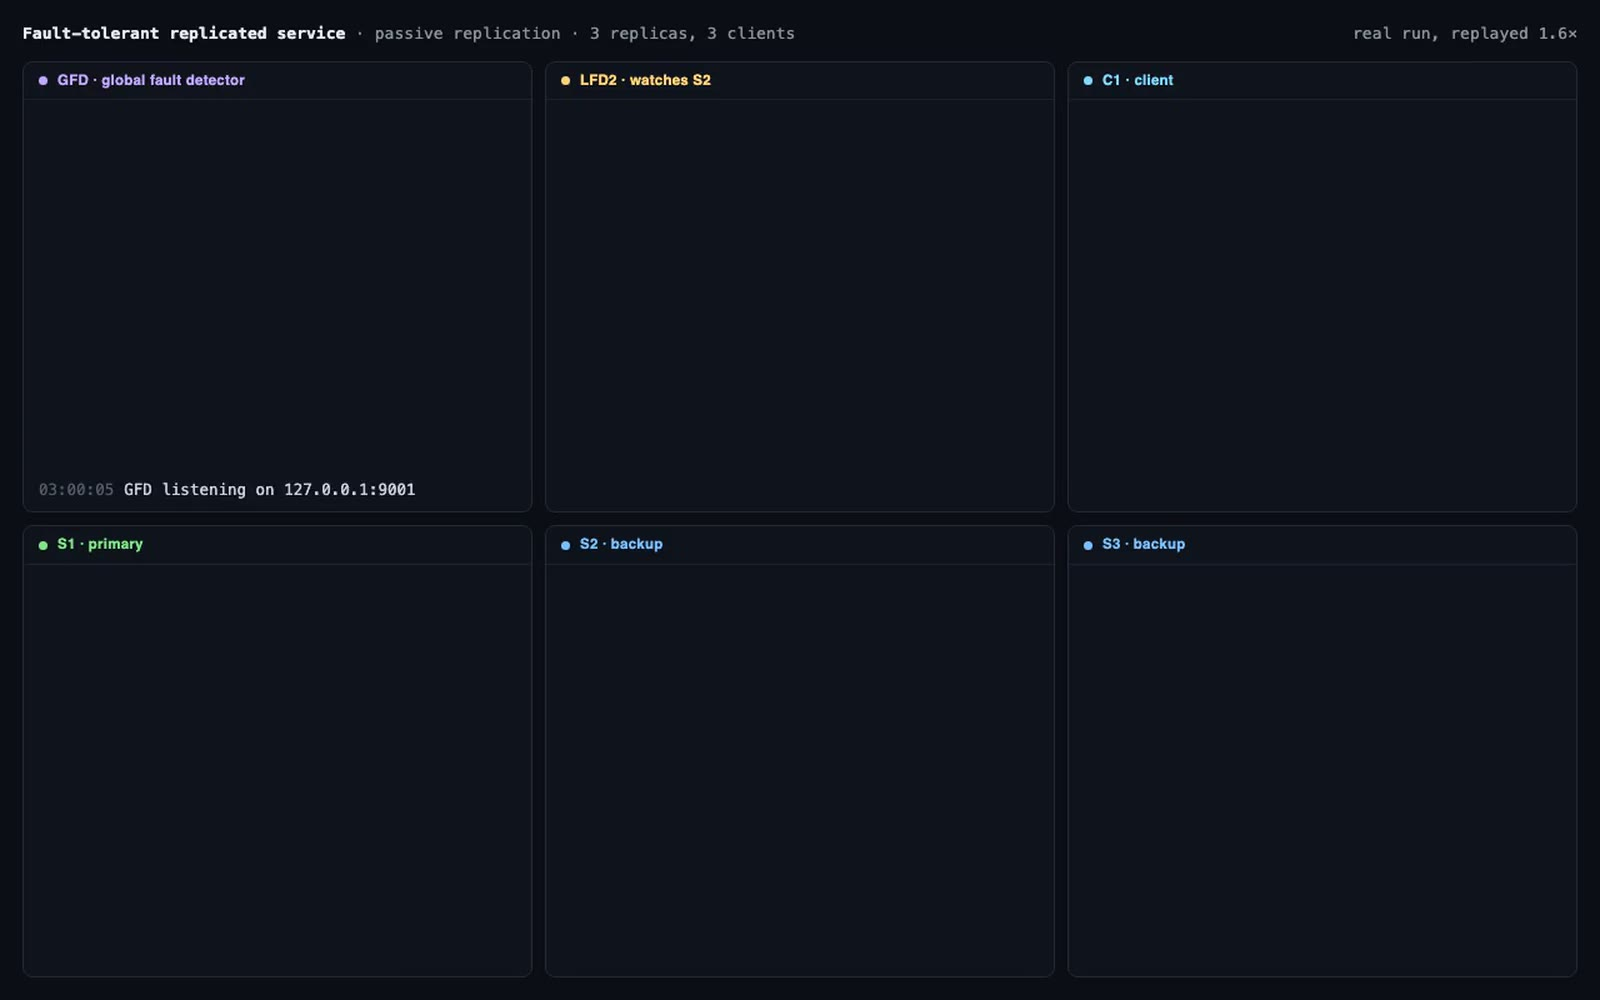
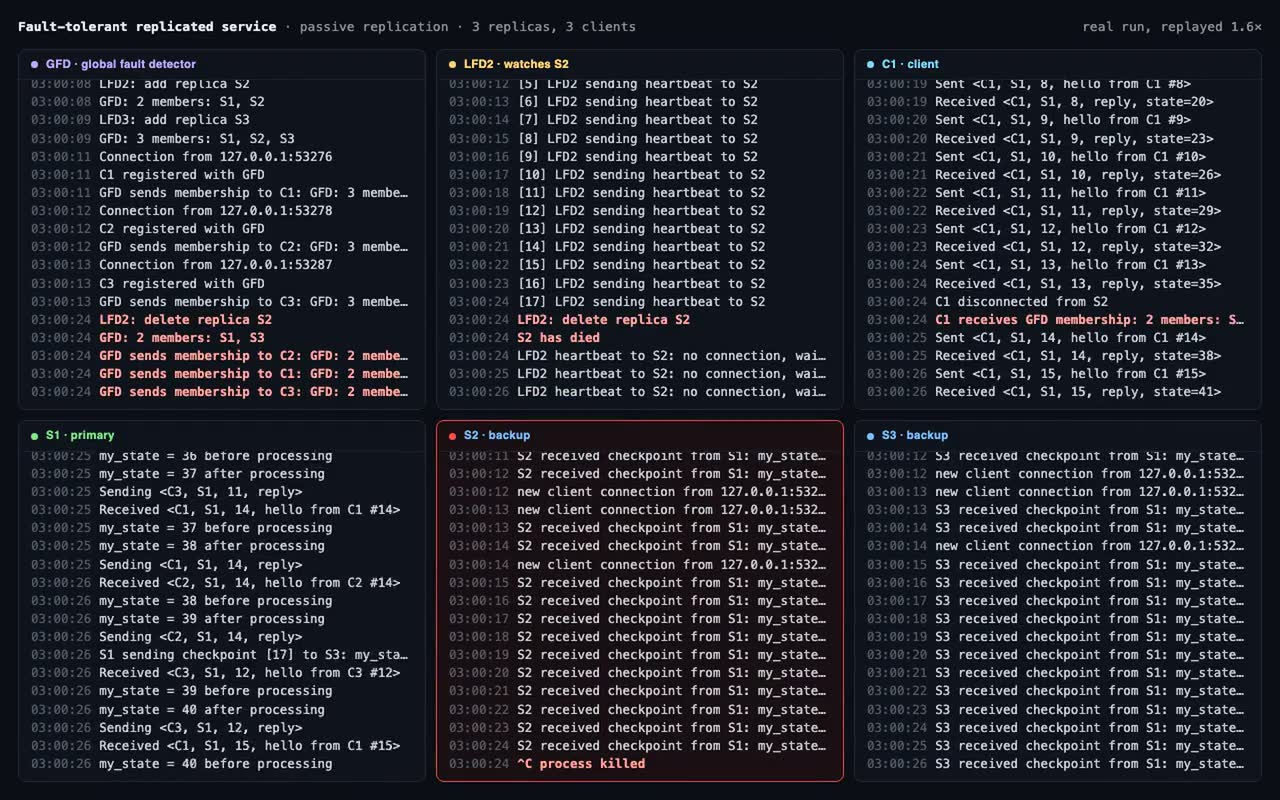
feat: sharpen project card copy and distsys poster
Rewrite Forge, LOTL, distributed system and robot learning cards with concrete scope and numbers (300 members, $60k+ bookings), fix the distsys tag (python, not java), and use a post-failover frame for its poster.

diff --git a/src/content/data.js b/src/content/data.js
@@ -24,9 +24,9 @@ export const PROJECTS = [
   {
     id: "forge",
     title: "Forge",
-    tagline: "ML experiment tracking with hardware-aware profiling",
-    body: "Run, track and compare ML experiments on financial time series: Airflow-orchestrated ingestion, per-run GPU and CPU profiling, an efficiency frontier, a model registry, and a LangGraph agent that answers questions about your runs.",
-    tag: "fastapi, airflow, pytorch",
+    tagline: "An MLOps platform for training, profiling and shipping models",
+    body: "End-to-end ML lifecycle on financial time series: Airflow ingestion into Postgres and pgvector, PyTorch and XGBoost training tracked in W&B, hardware-aware latency and memory profiling with an efficiency frontier, a staged model registry on S3, Prometheus and Grafana monitoring, and a LangGraph agent that answers questions about your runs with tool calls and RAG.",
+    tag: "mlops, fastapi, langgraph",
     video: "/media/forge",
     poster: "/media/forge-poster.jpg",
     links: [
@@ -37,9 +37,9 @@ export const PROJECTS = [
   {
     id: "lotl",
     title: "Ladies on the Links",
-    tagline: "A golf league's site, maintained by an issue-to-PR pipeline",
-    body: "Production site for a women's golf league. Members file an issue, Claude opens the pull request, it auto-merges; the tee sheet is Cloudflare-native and synced from Bookwhen.",
-    tag: "cloudflare, workers",
+    tagline: "The full digital stack for a 300-member golf league",
+    body: "Production platform for a women's golf league that booked over $60k this season: Bookwhen registration and booking, Google Workspace, stories with comments, events and merch. A live tee sheet parses Bookwhen booking emails in a Cloudflare Email Worker into D1. Automated fixes via GitHub Actions and issues, so the owner can change the site herself.",
+    tag: "astro, cloudflare workers, d1, claude code",
     video: "/media/lotl",
     poster: "/media/lotl-poster.jpg",
     links: [
@@ -49,10 +49,10 @@ export const PROJECTS = [
   },
   {
     id: "distsys",
-    title: "Distributed System",
-    tagline: "A fault-tolerant replicated service",
-    body: "Heartbeats, GFD and LFD membership, active and passive replication, checkpointing. Kill a backup and the detector notices, membership shrinks, and clients keep being served. CMU 18-749 team project.",
-    tag: "replication, java",
+    title: "Fault-Tolerant Replicated Service",
+    tagline: "A production-grade distributed system with automatic failover and zero dropped requests",
+    body: "Python over raw sockets: local heartbeat detectors feed a global membership service, active or primary-backup replication with checkpointing to bring backups up to date, and request-number deduplication so each client gets exactly one reply. Kill a replica mid-traffic and clients never notice. CMU 18-749 team project.",
+    tag: "python, sockets, replication",
     video: "/media/distsys",
     poster: "/media/distsys-poster.jpg",
     links: [{ label: "github", href: "https://github.com/C3viche/distributed-system" }],
@@ -60,9 +60,9 @@ export const PROJECTS = [
   {
     id: "robots",
     title: "Robot Learning",
-    tagline: "PPO, SAC and model-based RL; LLM planning for a robot arm",
-    body: "PPO against SAC against model-based RL on CarRacing-v3 (peak 685 at 960k steps), plus SayCan-Extended: GPT-3.5 planning, ViLD detection and direct PyBullet control with batching and caching.",
-    tag: "rl, pybullet",
+    tagline: "LLM task planning for a robot arm, and RL agents that learn to drive",
+    body: "SayCan-Extended: GPT-3.5 breaks natural-language instructions into steps, ViLD open-vocabulary detection grounds them in the scene, and the arm executes them in PyBullet, with batched and cached LLM calls to cut latency and cost. Plus PPO vs SAC vs model-based RL on CarRacing-v3 from pixels, peaking at 685 reward.",
+    tag: "llm planning, rl, pybullet",
     video: "/media/carracing",
     poster: "/media/carracing-poster.jpg",
     links: [{ label: "github", href: "https://github.com/csce585-mlsystems/SayCan-Extended" }],
